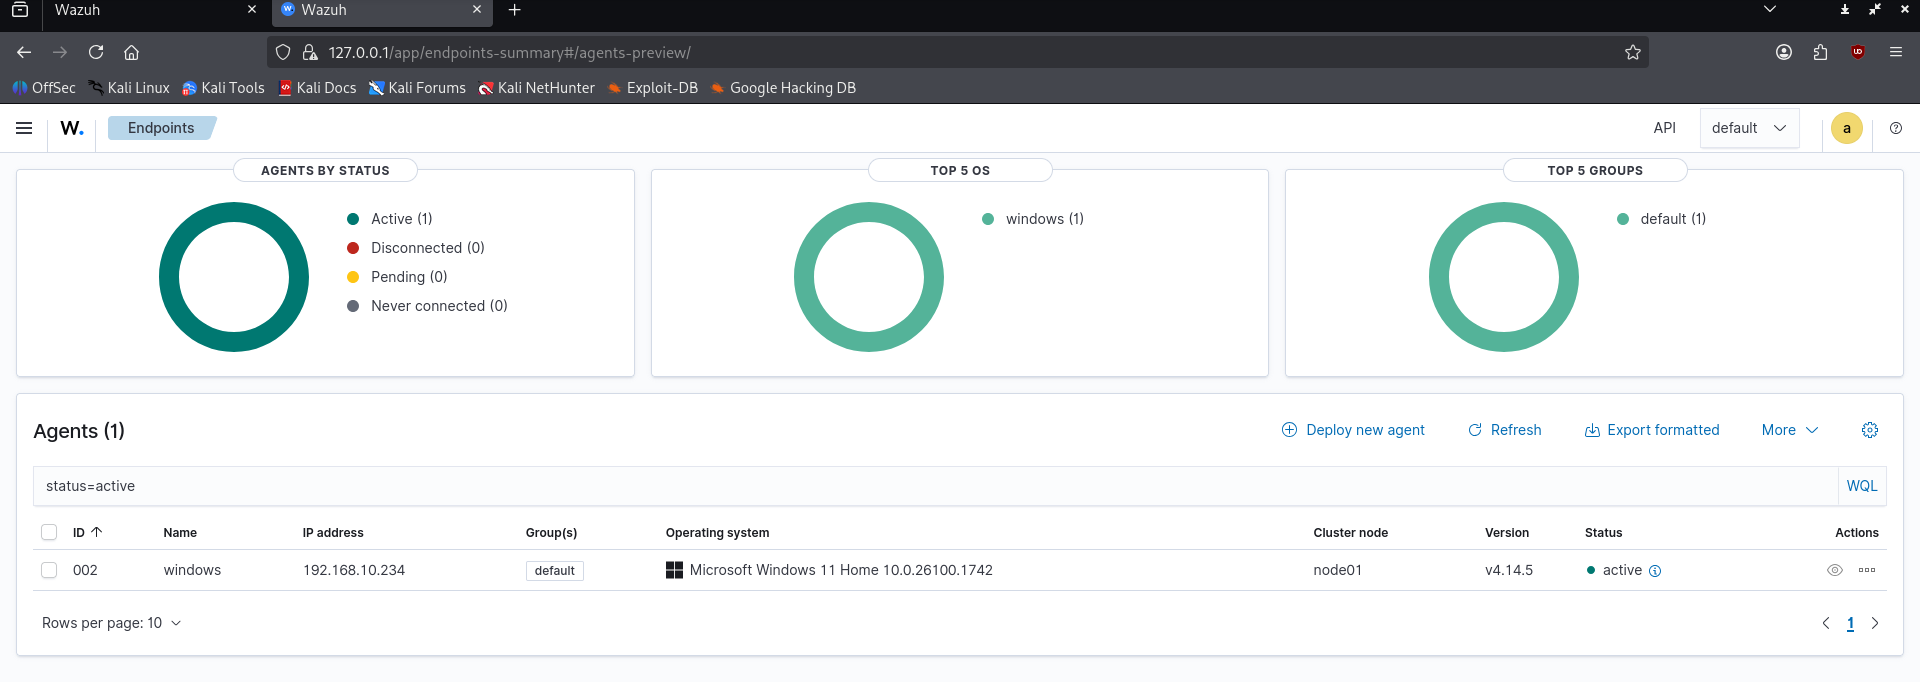
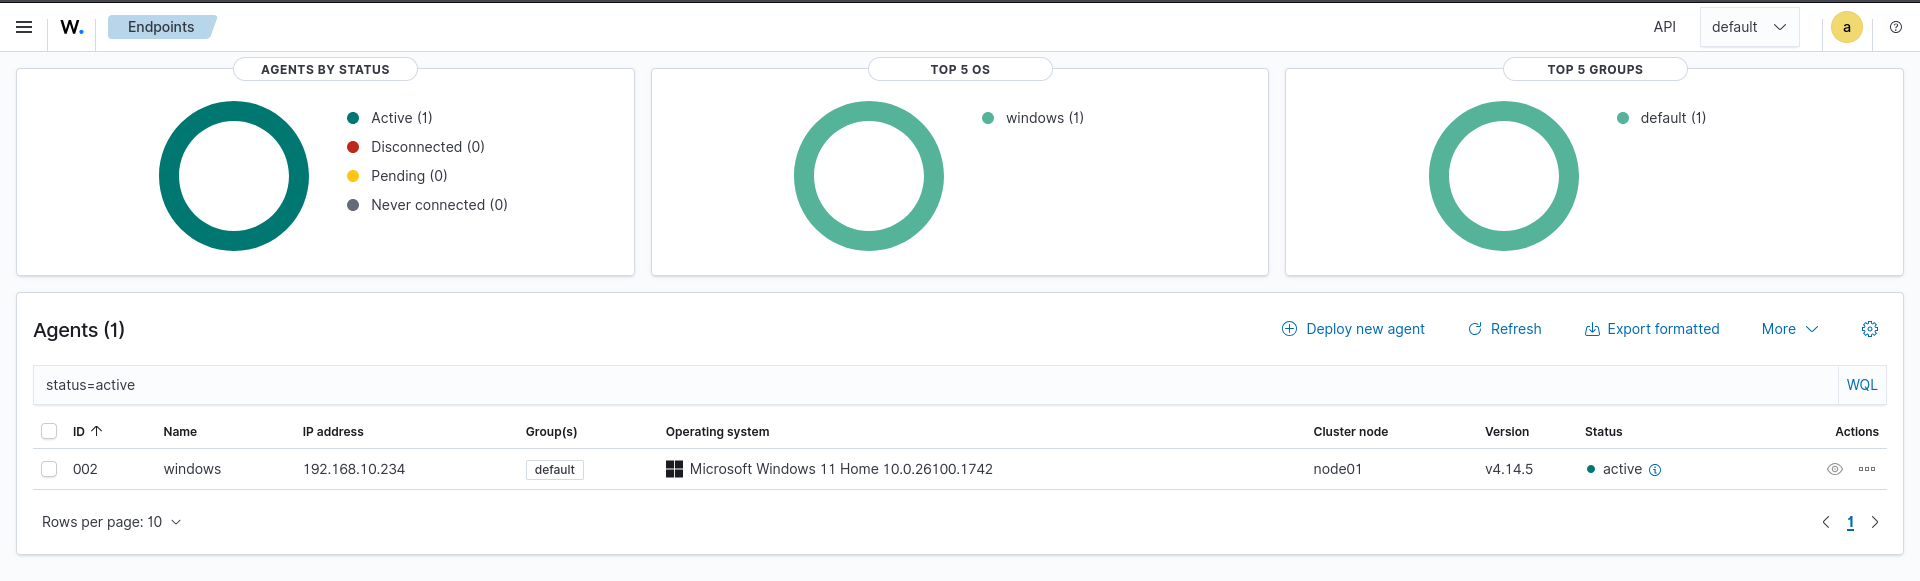
Major readme improvment and attached pdf

diff --git a/README.md b/README.md
@@ -1,60 +1,323 @@
-## 🛡️ Wazuh Lab: Monitoring Windows VM
+# Wazuh Lab: Monitoring a Windows VM
 
-![alt text](screenshots/wazuh-dashboard.png)
+> A hands-on Security Monitoring lab using Wazuh SIEM — deployed on VirtualBox with Kali Linux (manager) and Windows 11 (agent).
 
-## Watching my Windows For Sus Activities (with Wazuh)
-I set up Wazuh to monitor a Windows VM on my laptop. The goal was simple. To catch two things in real time:
-
-- **Failed logins** (password attack simulation)
-- **File changes** (FIM)
-
-Here’s exactly how I went about it:
-
-## What I used 🧰
-- **Wazuh Manager** (Kali Linux VM)  
-- **Wazuh Agent** (Windows 11 VM)  
-Both are running in VirtualBox on my laptop
-
-![alt text](screenshots/running-vms.png)
+**Full write-up with detailed screenshots:** [View the Lab Report PDF](./wazuh-lab-report.pdf)
 
 
-## What I configured on Windows ⚙️
+## Table of Contents
 
-### File Integrity Monitoring (FIM) 🔒
-
-I configured my Wazuh to watch a specific folder, in my case:
-
-- Path: `C:\Users\vboxuser\Desktop\secret`
-- Action: Added this to the agent’s `ossec.conf`:
-
-```xml
-<syscheck>
-  <directories check_all="yes" realtime="yes">C:\Users\vboxuser\Desktop\secret</directories>
-</syscheck>
-```
-![alt text](screenshots/conf-file.png)
-
-This makes sure that every creation, modification or deletion in that directory would trigger an alert.
-
-### Failed login detection 🔐
-
-I opened the Windows VM and:
-
-1. Tried to log in with a wrong password 7 times  
-2. Modifed the contents inside a text file in the dir `C:\Users\vboxuser\Desktop\secret\password.txt` 
-
-### What Wazuh caught (dashboard view)
-
-**Failed logins** – Immediately showed up under *Security events* with source IP, username, and failure count.  
-**File changes** – FIM alerted on file modification with timestamps and full path.
-
-![alt text](screenshots/logon-failure.png)
-![alt text](screenshots/fim.png)
-
-### Why this is Important?
-
-File Integrity Monitoring detects unauthorized changes for example, ransomwares, backdoors and all those kind of stuffs as they happen, and failed-login alerts flag credential‑spraying attempt or probably a brute forcing taking place in either case it helps, so you can respond fast.
+- [Executive Summary](#executive-summary)
+- [Objectives](#objectives)
+- [What is Wazuh?](#what-is-wazuh)
+- [Key Concepts](#key-concepts)
+- [Tools Used](#tools-used)
+- [Installation & Setup](#installation--setup)
+  - [Environment Setup (VirtualBox)](#environment-setup-virtualbox)
+  - [Wazuh Manager (Kali Linux)](#wazuh-manager-kali-linux)
+  - [Wazuh Agent (Windows 11)](#wazuh-agent-windows-11)
+  - [FIM Configuration](#fim-configuration-file-integrity-monitoring)
+- [Attack Simulations](#attack-simulations)
+  - [Brute-Force Attack](#brute-force-attack)
+  - [Ransomware File Modification](#ransomware-file-modification)
+- [Verification in Wazuh](#verification-in-wazuh)
+  - [Checking Brute-Force Logs](#checking-brute-force-logs)
+  - [Checking FIM Logs](#checking-fim-logs)
+- [Why This Matters](#why-this-matters)
+- [Conclusion](#conclusion)
 
 
-<br> 
-<div align="center"><strong>🤍 Baruch (and few cups of coffee ☕)</strong></div>
+## Executive Summary
+
+This project demonstrates a hands-on security monitoring lab using **Wazuh**, an open-source SIEM (Security Information and Event Management) platform. A Wazuh manager was deployed on a **Kali Linux VM** and a Wazuh agent on a **Windows 11 VM**, both running in VirtualBox on a single laptop.
+
+The goal was to detect two common attack indicators in real time:
+- **Failed login attempts**: simulating a password/brute-force attack
+- **Unauthorized file changes**: using File Integrity Monitoring (FIM)
+
+Both events were successfully captured and alerted on by Wazuh.
+
+
+![VirtualBox Overview](./screenshots/virtualbox-overview.png)
+
+
+## Objectives
+
+- Set up and deploy a fully functional Wazuh SIEM lab using virtual machines on a laptop
+- Configure the Windows agent to monitor a specific directory for file changes (FIM) in real time
+- Simulate a brute-force attack by entering wrong passwords and observe how Wazuh logs the failures
+- Document the entire process with screenshots to showcase the ability to set up, configure, and validate a security monitoring tool
+
+---
+
+## What is Wazuh?
+
+**Wazuh** is a free, open-source SIEM platform that:
+- Collects and analyzes security data from endpoints
+- Detects threats like intrusions, malware, or policy violations
+- Sends real-time alerts
+
+It works by installing a lightweight **agent** on monitored systems (e.g., Windows, Linux) that forwards logs to a central **manager** with a web dashboard.
+
+
+## Key Concepts
+
+<details>
+<summary><b>Brute-Force Attack</b></summary>
+
+An attacker repeatedly attempts to log into a system using many different passwords (or commonly used passwords across many accounts) to gain unauthorized access.
+
+**Windows Event ID `4625`** — Failed logon — is the primary indicator of such activity. Monitoring these failures in real time allows defenders to detect and block the attack early.
+
+</details>
+
+<details>
+<summary><b>Malware / Backdoor File Modification</b></summary>
+
+Malicious software often modifies, encrypts, or deletes files on a compromised system. **File Integrity Monitoring (FIM)** detects unauthorized changes to critical files or directories.
+
+By alerting on any modification, creation, or deletion, FIM helps identify ransomware activity, backdoor payloads, or insider threats as they happen.
+
+</details>
+
+
+## Tools Used
+
+| Role | Tool |
+|------|------|
+| **SIEM Manager** | Kali Linux VM (central server) |
+| **Monitored Endpoint** | Windows 11 VM (Wazuh agent) |
+| **Hypervisor** | VirtualBox (running both VMs on one laptop) |
+
+---
+
+## Installation & Setup
+
+<details>
+<summary><b>Environment Setup (VirtualBox)</b></summary>
+
+1. Downloaded and installed **VirtualBox** from the [official website](https://www.virtualbox.org)
+2. Created two VMs: **Kali Linux** (manager) and **Windows 11** (agent)
+
+**Steps to create a VM:**
+
+- **Step 1:** Clicked the **"New"** button to get started
+
+  ![New VM Dialog](./screenshots/vm-new-dialog.png)
+
+- **Step 2:** Filled in the required details — VM Name, VM Folder (left as default), and ISO Image path (Windows ISO downloaded from the official Microsoft website)
+
+  ![VM Details Form](./screenshots/vm-details-form.png)
+
+- **Step 3:** Switched to the **"Virtual Hardware"** tab and adjusted RAM and CPU
+
+  ![Virtual Hardware Settings](./screenshots/vm-hardware-settings.png)
+
+- **Step 4:** Switched to the **"Virtual Hard Disk"** tab and adjusted storage, then clicked **"Next"** to create the VM
+
+  ![Virtual Hard Disk Settings](./screenshots/vm-disk-settings.png)
+
+- **Step 5:** Selected the Kali VM → **Settings → Network** → changed **"Attached To"** to **"Bridged Adapter"**
+
+  ![Network Bridged Adapter](./screenshots/vm-network-bridged.png)
+
+- **Step 6:** Booted the Windows VM and completed the on-screen setup; repeated similar steps for Kali Linux
+
+</details>
+
+<details>
+<summary><b>Wazuh Manager (Kali Linux)</b></summary>
+
+1. Booted into the Kali machine
+2. Ran the official Wazuh all-in-one installation command from the [Wazuh Quickstart page](https://documentation.wazuh.com/current/quickstart.html)
+3. After installation, credentials (username: `admin` + generated password) were displayed in which was saved for later login
+   
+   Credentials can be retrieved anytime with:
+   ```bash
+   sudo tar -O -xvf wazuh-install-files.tar wazuh-install-files/wazuh-passwords.txt
+   ```
+
+4. Checked the Kali machine's IP address:
+   ```bash
+   ip addr show
+   ```
+   (`eth0` = main IP, `lo` = loopback/localhost)
+
+   ![IP Address Output](./screenshots/kali-ip-addr.png)
+
+5. Started Wazuh services:
+   ```bash
+   sudo systemctl start wazuh-indexer wazuh-manager wazuh-dashboard
+   ```
+
+6. Verified services were running:
+   ```bash
+   sudo systemctl status wazuh-indexer wazuh-manager wazuh-dashboard
+   ```
+
+   ![Wazuh Services Running](./screenshots/wazuh-services-running.png)
+
+7. Accessed the **Wazuh dashboard** in Firefox by navigating to the Kali machine's IP address and logging in with the saved credentials
+
+   ![Wazuh Dashboard Login](./screenshots/wazuh-dashboard-login.png)
+
+   
+   ![Wazuh Dashboard Home](./screenshots/wazuh-dashboard.png)
+
+</details>
+
+<details>
+<summary><b>Wazuh Agent (Windows 11)</b></summary>
+
+1. On the Wazuh dashboard (Kali), navigated to **Agent Management → Deploy New Agent**
+
+   ![Deploy New Agent](./screenshots/wazuh-deploy-agent.png)
+
+2. Selected the agent's operating system (**Windows**) and entered the Kali server's IP address
+3. A **PowerShell command** was generated and copied from the dashboard
+
+   ![Generated PowerShell Command](./screenshots/wazuh-powershell-command.png)
+
+4. Booted into the Windows VM and opened **PowerShell as Administrator**
+5. Pasted and ran the copied PowerShell command — this installs the Wazuh agent on the Windows endpoint
+
+   ![PowerShell Agent Install](./screenshots/windows-agent-install.png)
+
+6. Started the agent service:
+   ```powershell
+   NET START Wazuh
+   ```
+7. Verified the agent was running:
+   ```powershell
+   Get-Service -Name Wazuh
+   ```
+
+   ![Wazuh Agent Running](./screenshots/windows-agent-running.png)
+
+</details>
+
+<details>
+<summary><b>FIM Configuration (File Integrity Monitoring)</b></summary>
+
+1. On the Windows machine, opened **File Explorer** and navigated to:
+   ```
+   C:\Program Files (x86)\ossec-agent
+   ```
+
+2. Located the `ossec.conf` file — this stores configuration, connection details, rules, and other agent settings
+
+3. Opened `ossec.conf` in **Notepad as Administrator**
+
+   ![ossec.conf in Notepad](./screenshots/ossec-conf-notepad.png)
+
+4. Used `Ctrl + F` to find the `<syscheck>` block and added the following rule to monitor a specific directory (including all subdirectories and files) in real time:
+   ```xml
+   <directories check_all="yes" realtime="yes">C:\Users\vboxuser\Desktop\secret</directories>
+   ```
+
+   ![FIM Rule Added](./screenshots/ossec-syscheck-rule.png)
+
+5. Restarted the agent service to apply the changes:
+   ```powershell
+   NET STOP Wazuh
+   NET START Wazuh
+   ```
+
+</details>
+
+
+## Attack Simulations
+
+<details>
+<summary><b>Brute-Force Attack</b></summary>
+
+1. On the Windows machine, created a simple script to simulate a brute-force login attempt:
+   - Right-clicked the Desktop → created a new `.txt` file
+   - Wrote the script inside it, then renamed the file extension from `.txt` to `.cmd`
+
+   ![Brute-Force Script](./screenshots/bruteforce-script-desktop.png)
+
+2. Right-clicked the script and selected **"Run as Administrator"** to execute the brute-force simulation
+
+3. Multiple failed login attempts were triggered and appeared in the command line output
+
+   ![Brute-Force Running](./screenshots/bruteforce-cmd-running.png)
+
+</details>
+
+<details>
+<summary><b>Ransomware File Modification</b></summary>
+
+1. On the Windows machine, created a `.cmd` script (same method as above) to simulate a ransomware attack on the watched folder
+
+   ![Ransomware Script](./screenshots/ransomware-script-desktop.png)
+
+2. Right-clicked the script and selected **"Run as Administrator"**, just like we did with the cmd script
+
+3. Navigated to the watched folder to verify the attack worked:
+   ```
+   C:\Users\vboxuser\Desktop\secret\password.txt
+   ```
+
+   ![Modified File Verified](./screenshots/ransomware-file-verified.png)
+
+</details>
+
+
+## Verification in Wazuh
+
+<details>
+<summary><b>Checking Brute-Force Logs</b></summary>
+
+1. Logged back into the Kali machine and opened the **Wazuh dashboard** in the browser
+2. Navigated to **Security Operations → Threat Hunting → Events**
+3. Clicked **"Add Filter"** and selected `data.win.system.eventID` = `4625` (Windows failed login event ID)
+
+   ![Adding Event Filter](./screenshots/wazuh-filter-4625.png)
+
+4. Clicked **"Save"** — Wazuh filtered and displayed all matching failed login events
+
+   ![Filtered Login Failures](./screenshots/wazuh-4625-results.png)
+
+5. Clicked the magnifying glass icon on a result to expand details — this revealed the **username**, **userID**, **operating system**, and more
+
+   ![Event Detail Icon](./screenshots/wazuh-4625-mag.png)
+   ![Event Detail Expanded](./screenshots/wazuh-4625-detail.png)
+
+</details>
+
+<details>
+<summary><b>Checking FIM Logs</b></summary>
+
+1. On the same **Events** page, added a new filter: `rule.id` = `550` (standard Wazuh rule ID for FIM alerts)
+
+   ![FIM Filter Applied](./screenshots/wazuh-filter-550.png)
+
+2. Filtered results appeared showing all file modification events
+
+   ![FIM Results](./screenshots/wazuh-550-results.png)
+
+3. Expanded individual results to view full details of the detected file changes
+
+   ![FIM Event Detail](./screenshots/wazuh-550-detail.png)
+
+</details>
+
+## Challenges Encountered
+
+- **Virtual Machine Networking:** Default NAT settings in VirtualBox prevent direct communication between VMs. It was resolved by configuring the network settings to use a Bridged Adapter (placing both the Kali Linux and Windows on the same network)
+- **Enabling Real-Time FIM:** By default, Wazuh's syscheck module runs periodic scans. Detecting the ransomware simulation immediately required modifying the agent's `ossec.conf` file to include the `realtime="yes"` parameter for the specific target directory.
+- **Execution Restrictions:** Normal user accounts lack the permissions to modify protected files. The simulated attack scripts (`.cmd`) needed to be executed with Administrator privileges to function correctly and trigger the alerts.
+
+## Future Enhancements
+
+- **Active Response Configuration:** Implement Wazuh Active Response to automatically execute a script that blocks the attacker's IP address in the Windows Firewall after a specific threshold of failed login attempts.
+- **Sysmon Integration:** Install Microsoft Sysmon on the Windows endpoint and configure Wazuh to ingest its logs. This provides deeper system telemetry, including process creation and network connections, beyond standard Windows Event Logs.
+- **Vulnerability Detection:** Enable the Wazuh Vulnerability Detector module to automatically scan the Windows agent for missing OS patches and vulnerable third-party software.
+
+
+## Conclusion
+
+- **From Setup to Action** — Built a full Wazuh SIEM lab using two VMs, proving that enterprise-grade security monitoring is accessible on a laptop
+- **Proactive Detection** — Used FIM to spot ransomware-like file modifications in real time and Windows event analysis to detect brute-force attempts
+- **Hands-on Validation** — Simulated real-world attacks with scripts and used the Wazuh dashboard to verify detection